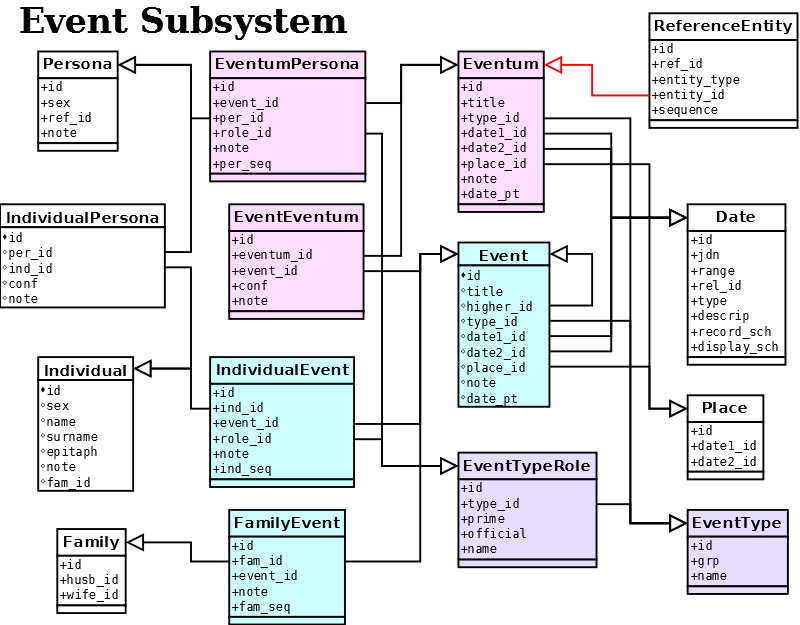
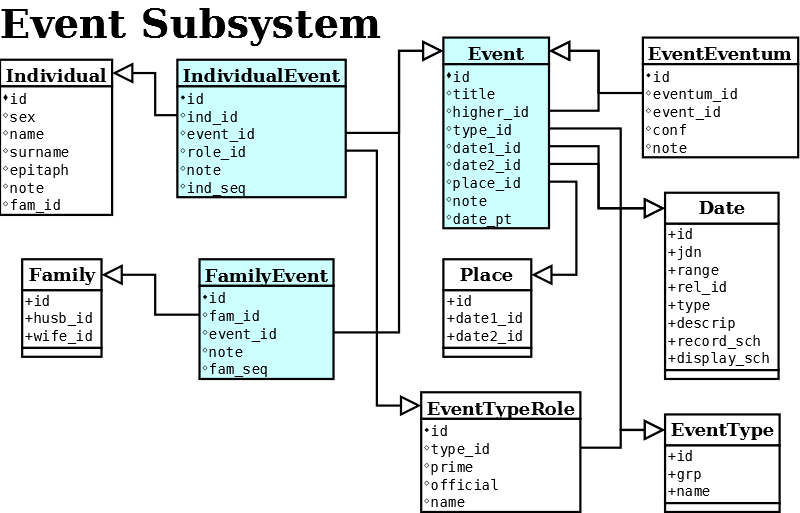
Website and documentation, split the Event subsystem into three, Events, Eventums and Event Types.
git-svn-id: https://svn.code.sf.net/p/thefamilypack/code/tfp/trunk@535 0b5b8454-fdc9-41d1-a9ee-242ce37e0c65

diff --git a/website/db/sub/eventtypes.htm b/website/db/sub/eventtypes.htm
@@ -1,0 +1,94 @@
+<!DOCTYPE html PUBLIC "-//W3C//DTD XHTML 1.0 Transitional//EN" "http://www.w3.org/TR/xhtml1/DTD/xhtml1-transitional.dtd">
+<html xmlns="http://www.w3.org/1999/xhtml" xml:lang="en" lang="en">
+<head>
+<title>The Family Pack - Database: Event Typess</title>
+<meta http-equiv="Content-Type" content="text/html;charset=utf-8" />
+<link rel='stylesheet' type='text/css' href='../../tfp.css' />
+</head>
+<body>
+
+<h1><a  href="../../index.htm"><img id="logo" src="../../tfp5.gif" alt="Logo" /></a>The Family Pack<br/>
+Database: Event Types</h1>
+
+<div id="page" class="database">
+
+<div id="crumbs">
+  <a href="../../index.htm" class="m-item">Home</a>
+  <a href="../database.htm" class="m-item level1">Database</a>
+  <a href="subsystems.htm" class="m-item level2">Subsystems</a>
+  <a href="eventtypes.htm" class="m-item level3 thispage">Event Types</a>
+  <a href="names.htm" class="m-item prev">&lt;&lt;</a>
+  <a href="personas.htm" class="m-item next">&gt;&gt;</a>
+</div>
+
+<div id="content" class="nomenu">
+
+<blockquote class="short">
+<p>
+</p>
+<p class="attribute"></p>
+</blockquote>
+
+<div class="diag"><img src="tfp-eventtype.png" alt="Event Type Subsystem" /></div>
+<p>
+ There are two distinct representations of Events in the database. The Event table which represents the real events we believe happened in the past and the Eventum table which represents the documented record of an event. Both these tables use a common system of event groups, types and roles. The link between these records is explored further in the <a href='../ov/event-eventum.htm'>Event - Eventum overview</a> page.
+</p>
+
+<h3>Event Types</h3>
+
+<table class='basic lfloat' width='50%'>
+<tr><th colspan='0'>EventType Groups</th></tr>
+<tr><th>Group</th><th>Name</th><th>Description</th></tr>
+<tr><td>0</td><td>Unstated</td><td>Normally an invalid value.</td></tr>
+<tr><td>1</td><td>Birth</td><td>The single birth event for an individual.</td></tr>
+<tr><td>2</td><td>Near&nbsp;Birth</td><td>ie Baptism or Birth registration. If the date of birth is not known, then the date of this event can be used as an approimation</td></tr>
+<tr><td>5</td><td>Death</td><td>The single death event for an individual.</td></tr>
+<tr><td>6</td><td>Near&nbsp;Death</td><td>ie Burial or Death registration. If the date of death is not known, then the date of this event can be used as an approimation</td></tr>
+<tr><td>3</td><td>Family&nbsp;Union</td><td>Normally a Marriage, but can be any event which signifies the offical start of the relationship.</td></tr>
+<tr><td>4</td><td>Other&nbsp;Family</td><td>Any family event in which both partners are equally equally prime, other than a official union event. It may occur before (engagment) or after (divorce) the union event.</td></tr>
+<tr><td>8</td><td>Personal</td><td>These are events which last the lifetime of an individual. Although the details may change over time, at any given time they normally have a single state. ie Occupation, Physical appearance or Residency</td></tr>
+<tr><td>7</td><td>Other</td><td>Anything which does not fit into the other Groups</td></tr>
+</table>
+
+<p>
+ A list of Event Types and the Roles normally associated with them is maintained as part of the core data - see the <a href='../../com/core/ets.htm'>Core Data: EventTypes</a> page for a current list. The user is free to extend this list as required. All Types are categorised into one of the groups shown opposite. This list cannot be extended by the user, although a future database version may.
+</p>
+<p>
+ The Group designated for an EventType has a significant effect on the way the Event is handled by the application.
+</p>
+
+</div>
+
+<hr />
+<div id='valid'>
+  <p>
+    <a href="http://validator.w3.org/check?uri=referer"><img
+        src="../../valid-xhtml10-blue.png"
+        alt="Valid XHTML 1.0 Strict" height="31" width="88" /></a>
+  </p>
+</div>
+
+<div id='create-date'><p> 2<sup>nd</sup> July 2014</p></div>
+
+</div>
+<!-- Start of StatCounter Code for Default Guide -->
+<script type="text/javascript">
+/*<![CDATA[*/
+var sc_project=9849896;
+var sc_invisible=1;
+var sc_security="8230fdb2";
+var scJsHost = (("https:" == document.location.protocol) ?
+"https://secure." : "http://www.");
+document.write("<sc"+"ript type='text/javascript' src='" +
+scJsHost+
+"statcounter.com/counter/counter.js'></"+"script>");
+/*]]>*/
+</script>
+<noscript><div class="statcounter"><a title="free hit
+counters" href="http://statcounter.com/"
+target="_blank"><img class="statcounter"
+src="http://c.statcounter.com/9849896/0/8230fdb2/1/"
+alt="free hit counters" /></a></div></noscript>
+<!-- End of StatCounter Code for Default Guide -->
+</body>
+</html>

diff --git a/website/db/sub/eventums.htm b/website/db/sub/eventums.htm
@@ -1,13 +1,14 @@
 <!DOCTYPE html PUBLIC "-//W3C//DTD XHTML 1.0 Transitional//EN" "http://www.w3.org/TR/xhtml1/DTD/xhtml1-transitional.dtd">
 <html xmlns="http://www.w3.org/1999/xhtml" xml:lang="en" lang="en">
 <head>
-<title>The Family Pack - Database: Events</title>
+<title>The Family Pack - Database: Eventums</title>
 <meta http-equiv="Content-Type" content="text/html;charset=utf-8" />
 <link rel='stylesheet' type='text/css' href='../../tfp.css' />
 </head>
 <body>
 
-<h1><a  href="../../index.htm"><img id="logo" src="../../tfp5.gif" alt="Logo" /></a>The Family Pack<br/>Database: Events</h1>
+<h1><a  href="../../index.htm"><img id="logo" src="../../tfp5.gif" alt="Logo" /></a>The Family Pack<br/>
+Database: Eventums</h1>
 
 <div id="page" class="database">
 
@@ -15,24 +16,27 @@
   <a href="../../index.htm" class="m-item">Home</a>
   <a href="../database.htm" class="m-item level1">Database</a>
   <a href="subsystems.htm" class="m-item level2">Subsystems</a>
-  <a href="events.htm" class="m-item level3 thispage">Events</a>
-  <a href="individuals.htm" class="m-item prev">&lt;&lt;</a>
-  <a href="../ov/overview.htm" class="m-item next">&gt;&gt;</a>
+  <a href="eventums.htm" class="m-item level3 thispage">Eventums</a>
+  <a href="personas.htm" class="m-item prev">&lt;&lt;</a>
+  <a href="individuals.htm" class="m-item next">&gt;&gt;</a>
 </div>
 
 <div id="content" class="nomenu">
 
-<blockquote class="short">
+<blockquote>
 <p>
- And now the sequence of events in no particular order.
 </p>
-<p class="attribute">Dan Rather</p>
+<p class="attribute"></p>
 </blockquote>
 
-<div class="diag"><img src="tfp-event.png" alt="Event Subsystem" /></div>
+<div class="diag"><img src="tfp-eventum.png" alt="Eventum Subsystem" /></div>
 <p>
- The Event table represents events which we have reason to believe actually happened. Individuals are linked to Events using the IndividualEvent table, which will also indicate the role played by the Individual. In addition, events in the Family-Union and Other-Family groups are linked to the families in question with the FamilyEvent record. The Event record may be linked to the Eventum evidence record by the EventEventum record. The link between these records is further explored in the <a href='../ov/event-eventum.htm'>Event - Eventum overview</a> page.
+ The Eventum entity is used to represent a record of an event, as recorded in the <a href='references.htm'>Reference statements</a>. The roles in the eventum are carried out by the Persona who are linked to the Eventum by the EventumPersona record. The Persona, Dates and Places which are linked to the Eventums also linked to to the same Reference document.
 </p>
+<p>
+ The Event entity, by contrast, represents the actual event we believe occured, these are linked by the EventEventum record. Both the Eventum and Event share the same group catorgories, types and roles, as described in the Event Type subsystem. The link between these records is further explored in the <a href='../ov/event-eventum.htm'>Event - Eventum overview</a> page.
+</p>
+
 </div>
 
 <hr />
@@ -44,8 +48,7 @@
   </p>
 </div>
 
-<div id='create-date'><p> 7<sup>th</sup> September 2010
-. . . . Last updated 2<sup>nd</sup> July 2014</p></div>
+<div id='create-date'><p> 2<sup>nd</sup> July 2014</p></div>
 
 </div>
 <!-- Start of StatCounter Code for Default Guide -->

diff --git a/website/map.htm b/website/map.htm
@@ -45,9 +45,11 @@
  <tr><td>- - -</td><td>- - -</td><td>- - -</td><td><a href="db/sub/dates.htm" class="m-item">Dates</a></td></tr>
  <tr><td>- - -</td><td>- - -</td><td>- - -</td><td><a href="db/sub/places.htm" class="m-item">Places</a></td></tr>
  <tr><td>- - -</td><td>- - -</td><td>- - -</td><td><a href="db/sub/names.htm" class="m-item">Names</a></td></tr>
+ <tr><td>- - -</td><td>- - -</td><td>- - -</td><td><a href="db/sub/eventtypes.htm" class="m-item">Event Types</a></td></tr>
  <tr><td>- - -</td><td>- - -</td><td>- - -</td><td><a href="db/sub/personas.htm" class="m-item">Personas</a></td></tr>
- <tr><td>- - -</td><td>- - -</td><td>- - -</td><td><a href="db/sub/events.htm" class="m-item">Events</a></td></tr>
+ <tr><td>- - -</td><td>- - -</td><td>- - -</td><td><a href="db/sub/eventums.htm" class="m-item">Eventums</a></td></tr>
  <tr><td>- - -</td><td>- - -</td><td>- - -</td><td><a href="db/sub/individuals.htm" class="m-item">Individuals</a></td></tr>
+ <tr><td>- - -</td><td>- - -</td><td>- - -</td><td><a href="db/sub/events.htm" class="m-item">Events</a></td></tr>
 
  <tr><td>- - -</td><td>- - -</td><td><a href="db/ov/overview.htm" class="m-item">Overview</a></td></tr>
  <tr><td>- - -</td><td>- - -</td><td>- - -</td><td><a href="db/ov/gentech-gtdm.htm" class="m-item">GenTech GDM</a></td></tr>

diff --git a/website/db/sub/subsystems.htm b/website/db/sub/subsystems.htm
@@ -28,9 +28,11 @@
   <a href="dates.htm" class="m-item">Dates</a>
   <a href="places.htm" class="m-item">Places</a>
   <a href="names.htm" class="m-item">Names</a>
+  <a href="eventtypes.htm" class="m-item">Event Types</a>
   <a href="personas.htm" class="m-item">Personas</a>
-  <a href="events.htm" class="m-item">Events</a>
+  <a href="eventums.htm" class="m-item">Eventums</a>
   <a href="individuals.htm" class="m-item">Individuals</a>
+  <a href="events.htm" class="m-item">Events</a>
   <a href="../../map.htm" class="m-item">Site Map</a>
   <p style="text-align: center;">
     The project page at<br />
@@ -115,8 +117,6 @@
  <dd>The Persona is the representation of a person as they appear in a reference document.</dd>
  <dt>Eventums</dt>
  <dd>The Eventum is the representation of an event as it appears in a reference document.</dd>
- <dt>Relationships</dt>
- <dd>Relationships are used to describe how Personas are related to each other.</dd>
 </dl>
 
 <h4>Results</h4>

diff --git a/website/db/sub/individuals.htm b/website/db/sub/individuals.htm
@@ -16,8 +16,8 @@
   <a href="../database.htm" class="m-item level1">Database</a>
   <a href="subsystems.htm" class="m-item level2">Subsystems</a>
   <a href="individuals.htm" class="m-item level3 thispage">Individuals</a>
-  <a href="events.htm" class="m-item prev">&lt;&lt;</a>
-  <a href="../ov/overview.htm" class="m-item next">&gt;&gt;</a>
+  <a href="eventums.htm" class="m-item prev">&lt;&lt;</a>
+  <a href="events.htm" class="m-item next">&gt;&gt;</a>
 </div>
 
 <div id="content" class="nomenu">

diff --git a/website/db/sub/personas.htm b/website/db/sub/personas.htm
@@ -16,8 +16,8 @@
   <a href="../database.htm" class="m-item level1">Database</a>
   <a href="subsystems.htm" class="m-item level2">Subsystems</a>
   <a href="personas.htm" class="m-item level3 thispage">Personas</a>
-  <a href="names.htm" class="m-item prev">&lt;&lt;</a>
-  <a href="events.htm" class="m-item next">&gt;&gt;</a>
+  <a href="eventtypes.htm" class="m-item prev">&lt;&lt;</a>
+  <a href="eventums.htm" class="m-item next">&gt;&gt;</a>
 </div>
 
 <div id="content" class="nomenu">

diff --git a/website/db/ov/overview.htm b/website/db/ov/overview.htm
@@ -15,7 +15,7 @@
   <a href="../../index.htm" class="m-item">Home</a>
   <a href="../database.htm" class="m-item level1">Database</a>
   <a href="overview.htm" class="m-item level2 thispage">Overview</a>
-  <a href="../sub/individuals.htm" class="m-item prev">&lt;&lt;</a>
+  <a href="../sub/events.htm" class="m-item prev">&lt;&lt;</a>
   <a href="gentech-gtdm.htm" class="m-item next">&gt;&gt;</a>
 </div>
 <div id="menu">

diff --git a/website/db/sub/names.htm b/website/db/sub/names.htm
@@ -17,7 +17,7 @@
   <a href="subsystems.htm" class="m-item level2">Subsystems</a>
   <a href="names.htm" class="m-item level3 thispage">Names</a>
   <a href="places.htm" class="m-item prev">&lt;&lt;</a>
-  <a href="personas.htm" class="m-item next">&gt;&gt;</a>
+  <a href="eventtypes.htm" class="m-item next">&gt;&gt;</a>
 </div>
 
 <div id="content" class="nomenu">
